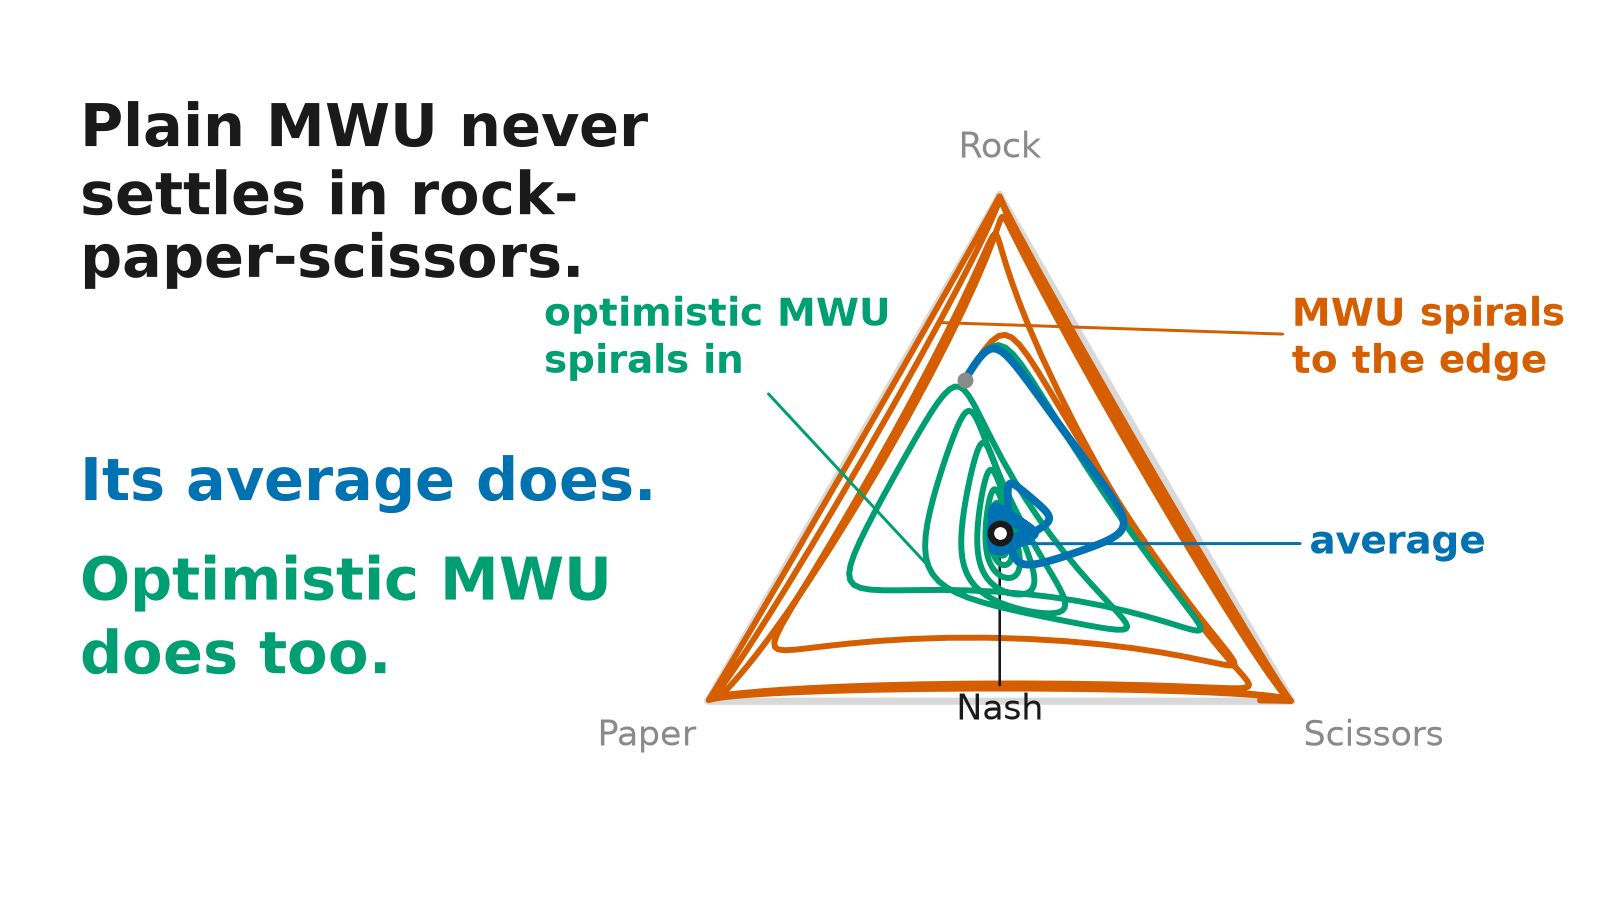
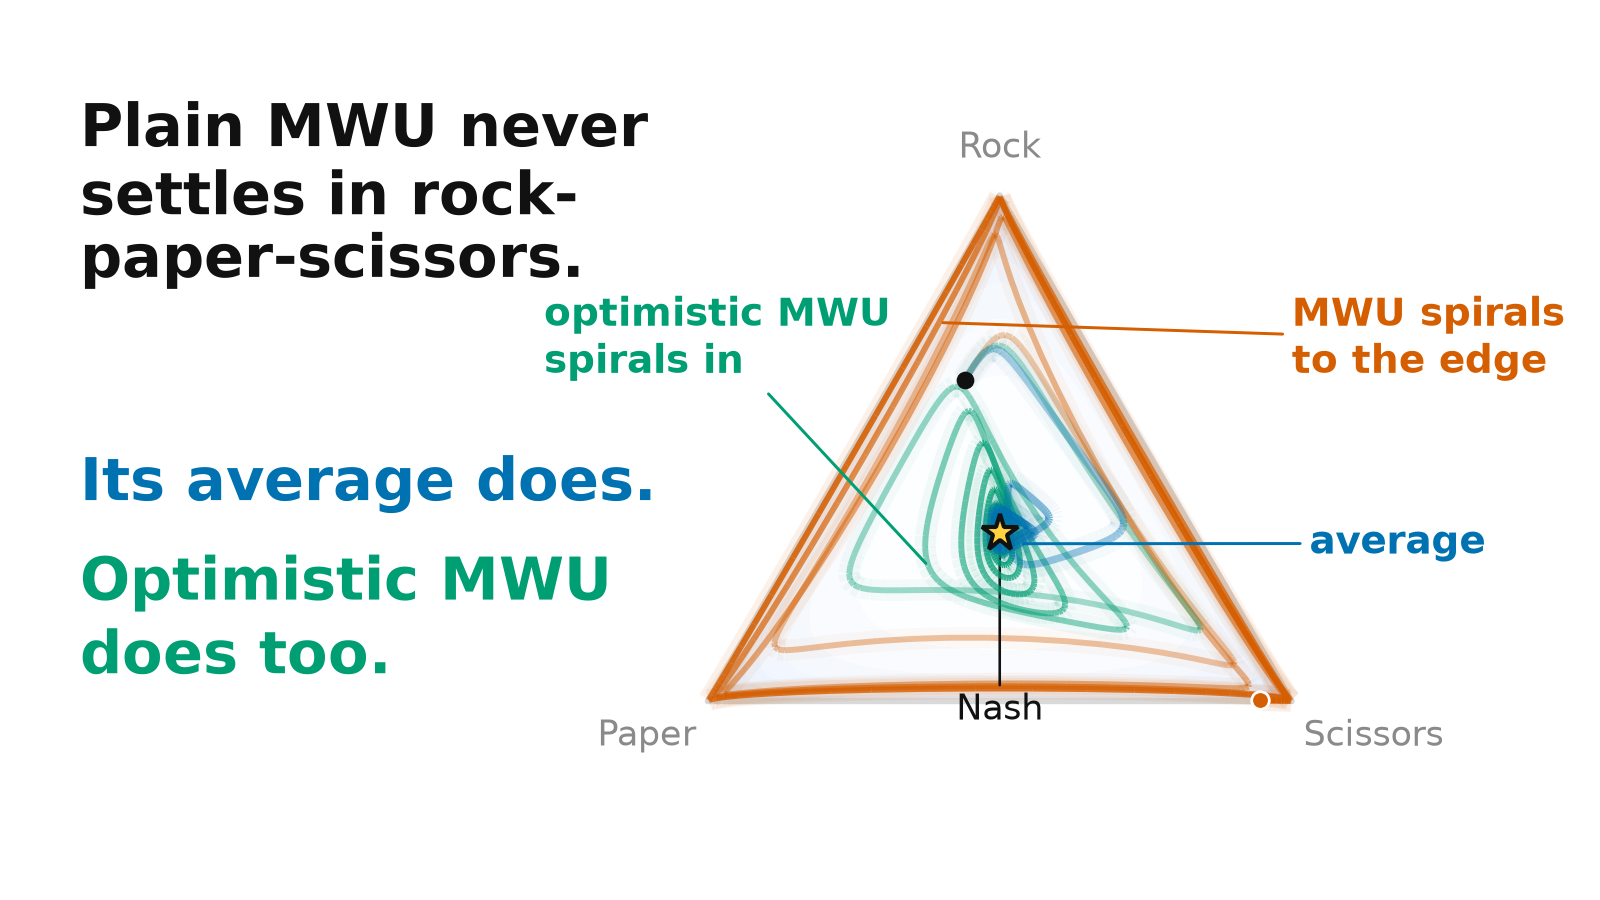
Sketches: plain-words intro, title-only listing, black on white, livelier figures
- Intro explaining Nash equilibrium, why learning dynamics matter, MWU and payoffs
- Listing page is now a plain list of titles linking to full articles
- Remove the dark theme: black on white only
- Figures and canvas animation: fading trails, glow, distance-to-Nash tint
- Correct the average-strategy guarantee (order eta + 1/(eta T) at fixed eta)

Changed region(s): [[0.4375, 0.2178, 0.8125, 0.8089]]

diff --git a/sketches/mwu-rps/index.html b/sketches/mwu-rps/index.html
@@ -3,7 +3,6 @@
 <head>
   <meta charset="utf-8">
   <meta name="viewport" content="width=device-width, initial-scale=1">
-  <meta name="color-scheme" content="light dark">
   <title>Multiplicative Weights in Rock-Paper-Scissors · Raphaël Padiou</title>
   <meta name="description" content="Two players learning rock-paper-scissors by multiplicative weights: the last iterate cycles away from Nash, the average converges, optimistic updates converge.">
   <meta property="og:type" content="website">
@@ -43,16 +42,20 @@
       <h2 class="sk-title">Never settling, yet always fair: Multiplicative Weights in Rock-Paper-Scissors</h2>
 
       <div class="sk-body">
-        <p>Two players play rock-paper-scissors against each other, and each learns with Multiplicative Weights (Hedge): after every round, the weight of each action is multiplied by <span class="mono">exp(η · payoff)</span> against the opponent's current mixed strategy, then renormalised. The only Nash equilibrium is to play every action with probability 1/3. Do the players get there?</p>
-        <p><span class="c-red">Plain MWU does not.</span> The strategy spirals away from the centre, towards the edge of the triangle: the KL divergence to Nash grows at every step (Bailey &amp; Piliouras, 2018). In the run below it goes from 0.63 to 5.0 in 400 rounds, and one player ends up playing scissors 94% of the time. <span class="c-blue">The average does.</span> Each player's regret grows like √T, so the <em>time-averaged</em> strategies form an approximate equilibrium whose error shrinks like 1/√T: in our run it is within 0.03 of (1/3, 1/3, 1/3) after 400 rounds.</p>
-        <p><span class="c-green">Optimistic MWU does too, and without averaging.</span> Counting the latest payoff twice, with the update <span class="mono">2g<sub>t</sub> − g<sub>t−1</sub></span>, makes the strategy itself converge to Nash for a small enough step size (Daskalakis &amp; Panageas, 2019): here the KL divergence falls from 0.63 to 0.003.</p>
+        <div class="sk-intro">
+          <p class="sk-h2">The setting, in plain words</p>
+          <p>Think of rock-paper-scissors. If you always play rock, I will soon notice and play paper. The only way not to be beaten is to <em>mix</em> your moves unpredictably, one third each. Then nothing I do can give me an edge. Such a pair of strategies, where neither player gains by changing their own on their own, is called a <strong>Nash equilibrium</strong>. Here it is unique: both players play (1/3, 1/3, 1/3).</p>
+          <p>Why care? Because more and more decisions are made by algorithms that <em>learn</em> by playing against each other: pricing bots, bidders in ad auctions, trading agents, the two networks of a GAN. When everybody keeps adapting to everybody, does the behaviour calm down at the equilibrium, go round in circles, or blow up? Rock-paper-scissors is the smallest example where the answer is not obvious.</p>
+          <p>The learning rule studied here, <strong>Multiplicative Weights (MWU, also called Hedge)</strong>, is one of the simplest: keep a weight for each move, and after every round boost the moves that would have done well against what the opponent just did. A move's <em>payoff</em> is the score it would have earned (+1 for a win, 0 for a draw, −1 for a loss, averaged over the opponent's current mix). The boost is a multiplication by <span class="mono">exp(η · payoff)</span>: a good move gets more weight, a bad one less, weights stay positive, and the effect compounds from round to round. The number η, the learning rate, says how strongly to react. Finally the weights are rescaled to sum to 1, so they read as probabilities.</p>
+        </div>
+
+        <p>Do two MWU players end up at Nash?</p>
+        <p><span class="c-red">Plain MWU does not.</span> The strategy spirals away from the centre, towards the edge of the triangle: the KL divergence to Nash (a measure of distance between two probability vectors) grows at every step (Bailey &amp; Piliouras, 2018). In the run below it goes from 0.63 to 5.0 in 400 rounds, and one player ends up playing scissors 94% of the time. <span class="c-blue">The average does.</span> Each player's regret (how much they lose compared with the best fixed move in hindsight) grows slowly, so the <em>time-averaged</em> strategies form an approximate equilibrium, with a guaranteed error of order η + 1/(ηT): in our run it is within 0.03 of (1/3, 1/3, 1/3) after 400 rounds.</p>
+        <p><span class="c-green">Optimistic MWU does too, and without averaging.</span> Counting the latest payoff twice, with the update <span class="mono">2g<sub>t</sub> − g<sub>t−1</sub></span> (where g<sub>t</sub> is the payoff vector at round t), makes the strategy itself converge to Nash for a small enough step size (Daskalakis &amp; Panageas, 2019): here the KL divergence falls from 0.63 to 0.003.</p>
       </div>
 
       <figure>
-        <picture>
-          <source srcset="figure-dark.png" media="(prefers-color-scheme: dark)">
-          <img src="figure-light.png" width="1760" height="800" alt="Left: the rock-paper-scissors simplex with the trajectory of one player under MWU (spiralling to the edge), its running average and optimistic MWU (both converging to the centre). Right: KL divergence to Nash over 400 iterations, growing for MWU, decreasing for optimistic MWU, small for the average.">
-        </picture>
+        <img src="figure.png" width="1760" height="800" alt="Left: the rock-paper-scissors simplex with the trajectory of one player under MWU (spiralling to the edge), its running average and optimistic MWU (both converging to the centre). Right: KL divergence to Nash over 400 iterations, growing for MWU, decreasing for optimistic MWU, small for the average.">
         <figcaption>One run, step size η = 0.2, 400 rounds, both players start away from the centre. Left: player 1's strategy. Right: KL divergence to Nash, summed over both players (log scale). The average is not monotone: it wiggles around Nash.</figcaption>
       </figure>
 
@@ -78,6 +81,6 @@
   </main>
 
 </div>
-<script src="anim.js?v=1"></script>
+<script src="anim.js?v=3"></script>
 </body>
 </html>

diff --git a/sketches/mwu-rps/anim.js b/sketches/mwu-rps/anim.js
@@ -75,28 +75,47 @@
     ctx.textAlign = "center"; ctx.fillText("Rock", P([1, 0, 0])[0], P([1, 0, 0])[1] - 12);
     ctx.textAlign = "center"; ctx.fillText("Paper", P([0, 1, 0])[0], P([0, 1, 0])[1] + fs + 4);
     ctx.textAlign = "center"; ctx.fillText("Scissors", P([0, 0, 1])[0], P([0, 0, 1])[1] + fs + 4);
+    var c0 = P([1 / 3, 1 / 3, 1 / 3]);
     // paths
     function trail(path, color, lw) {
-      ctx.strokeStyle = color; ctx.lineWidth = lw; ctx.beginPath();
-      for (var j = 0; j <= upto; j++) { var q = P(path[j]); j ? ctx.lineTo(q[0], q[1]) : ctx.moveTo(q[0], q[1]); }
-      ctx.stroke();
+      // older part faint, recent part vivid: draw in chunks of increasing opacity
+      var chunks = 24, len = upto + 1, size = Math.max(2, Math.ceil(len / chunks));
+      ctx.strokeStyle = color; ctx.lineWidth = lw;
+      for (var a0 = 0; a0 < upto; a0 += size) {
+        var a1 = Math.min(upto, a0 + size);
+        ctx.globalAlpha = 0.25 + 0.75 * (a1 / Math.max(1, upto));
+        ctx.beginPath();
+        for (var j = a0; j <= a1; j++) { var q = P(path[j]); j > a0 ? ctx.lineTo(q[0], q[1]) : ctx.moveTo(q[0], q[1]); }
+        ctx.stroke();
+      }
+      ctx.globalAlpha = 1;
     }
-    trail(data.M, red, 2.2); trail(data.O, green, 2.2); trail(data.A, blue, 2.6);
+    // soft tint towards the edge (distance to Nash), then trails
+    var g = ctx.createRadialGradient(c0[0], c0[1], 0, c0[0], c0[1], side * 0.62);
+    g.addColorStop(0, "rgba(196,214,245,0)"); g.addColorStop(1, "rgba(196,214,245,.55)");
+    ctx.save(); ctx.beginPath();
+    for (var m2 = 0; m2 < 3; m2++) { var vq = P([[1, 0, 0], [0, 1, 0], [0, 0, 1]][m2]); m2 ? ctx.lineTo(vq[0], vq[1]) : ctx.moveTo(vq[0], vq[1]); }
+    ctx.closePath(); ctx.clip(); ctx.fillStyle = g; ctx.fillRect(0, 0, w, h); ctx.restore();
+    ctx.shadowBlur = 10;
+    ctx.shadowColor = red; trail(data.M, red, 2.4);
+    ctx.shadowColor = green; trail(data.O, green, 2.4);
+    ctx.shadowColor = blue; trail(data.A, blue, 2.8);
+    ctx.shadowBlur = 0;
     // Nash and start
     var c = P([1 / 3, 1 / 3, 1 / 3]);
-    ctx.fillStyle = bg; ctx.strokeStyle = fg; ctx.lineWidth = 2; ctx.beginPath(); ctx.arc(c[0], c[1], 5, 0, 6.2832); ctx.fill(); ctx.stroke();
+    ctx.fillStyle = "#ffd23f"; ctx.strokeStyle = fg; ctx.lineWidth = 1.6; ctx.beginPath(); ctx.arc(c[0], c[1], 7, 0, 6.2832); ctx.fill(); ctx.stroke();
     var s0 = P(X0); ctx.fillStyle = grey; ctx.beginPath(); ctx.arc(s0[0], s0[1], 3.5, 0, 6.2832); ctx.fill();
     // direct labels at the current points
     ctx.font = "600 " + fs + "px 'STIX Two Text', Georgia, serif";
     function tag(path, color, text, dx, dy, align) {
       var q = P(path[upto]);
-      ctx.fillStyle = color; ctx.beginPath(); ctx.arc(q[0], q[1], 4, 0, 6.2832); ctx.fill();
+      ctx.shadowBlur = 12; ctx.shadowColor = color; ctx.fillStyle = color; ctx.beginPath(); ctx.arc(q[0], q[1], 5, 0, 6.2832); ctx.fill(); ctx.shadowBlur = 0;
       if (align === "left" && q[0] > w * 0.7) { align = "right"; dx = -dx; }
       ctx.textAlign = align; ctx.fillText(text, q[0] + dx, q[1] + dy);
     }
-    tag(data.M, red, "MWU", 9, -8, "left");
+    tag(data.M, red, "MWU", 9, -14, "left");
     tag(data.O, green, "optimistic MWU", -12, 24, "right");
-    tag(data.A, blue, "average", 12, 4, "left");
+    tag(data.A, blue, "average", 12, 18, "left");
   }
 
   function frame() {
@@ -116,7 +135,6 @@
   slider.addEventListener("input", start);
   replay.addEventListener("click", start);
   window.addEventListener("resize", function () { if (data) draw(k); });
-  if (window.matchMedia) matchMedia("(prefers-color-scheme: dark)").addEventListener("change", function () { if (data) draw(k); });
   // Start when visible (saves work if the page is opened in the background).
   if ("IntersectionObserver" in window) {
     var io = new IntersectionObserver(function (e) { if (e[0].isIntersecting) { io.disconnect(); start(); } }, { threshold: 0.3 });

diff --git a/assets/css/style.css b/assets/css/style.css
@@ -189,19 +189,16 @@ html.lens-open { overflow: hidden; }
 .sk .refs { font-size: 1rem; line-height: 1.55; padding-left: 1.2rem; margin: 0 0 1.4rem; color: var(--muted); }
 .sk .refs li { margin-bottom: .5rem; }
 .sk .sk-note { font-size: .95rem !important; color: var(--muted); }
-.sk-list { list-style: none; margin: 2rem 0 0; padding: 0; }
-.sk-list li { margin: 0 0 3rem; }
-.sk-item { display: grid; grid-template-columns: 13rem 1fr; gap: 0 1.8rem; align-items: center; color: var(--text); }
-.sk-item:hover { text-decoration: none; }
-.sk-item:hover .sk-name { text-decoration: underline; }
-.sk-item img { width: 100%; height: auto; aspect-ratio: 16 / 9; object-fit: cover; border-radius: 6px; display: block; }
-.sk-name { display: block; font-size: 1.3rem; font-weight: 600; line-height: 1.25; margin-bottom: .35rem; }
-.sk-one { display: block; color: var(--muted); font-size: 1.05rem; line-height: 1.45; }
+.sk-list { list-style: none; margin: 1.6rem 0 0; padding: 0; }
+.sk-list li { padding: 1rem 0; border-top: 1px solid var(--rule); }
+.sk-list li:last-child { border-bottom: 1px solid var(--rule); }
+.sk-list a { font-size: 1.3rem; font-weight: 600; line-height: 1.3; color: var(--text); }
+.sk-list a:hover { color: var(--accent); }
 @media (max-width: 600px) {
   .sk .sk-title { font-size: 1.55rem; }
-  .sk-item { grid-template-columns: 1fr; gap: .8rem; }
   .sk main > p, .sk .sk-body p { font-size: 1.1rem; }
 }
-@media (prefers-color-scheme: dark) {
-  .sk { --bg: #14161a; --text: #ececec; --muted: #a3a3a3; --rule: #343840; --accent: #7fb2ee; --sk-grey: #8c8c8c; --sk-faint: #3a3d44; --sk-red: #f08a3c; --sk-blue: #56b4e9; --sk-green: #2fc79a; color-scheme: dark; }
-}
+
+.sk .sk-intro { border-left: 3px solid var(--rule); padding-left: 1.1rem; margin: 0 0 2rem; }
+.sk .sk-intro p { color: var(--text); }
+.sk .sk-intro .sk-h2 { font-size: .9rem; font-weight: 600; font-variant: small-caps; letter-spacing: .05em; color: var(--muted); margin: 0 0 .5rem; }

diff --git a/sketches/index.html b/sketches/index.html
@@ -3,7 +3,6 @@
 <head>
   <meta charset="utf-8">
   <meta name="viewport" content="width=device-width, initial-scale=1">
-  <meta name="color-scheme" content="light dark">
   <title>Sketches · Raphaël Padiou</title>
   <meta name="description" content="Short visual notes: one idea, one figure, a few lines of code.">
   <meta property="og:type" content="website">
@@ -39,15 +38,8 @@
   <main>
     <section>
       <h2>Sketches</h2>
-      <p>Short pieces: one idea, one figure, the code to reproduce it.</p>
       <ul class="sk-list">
-        <li>
-          <a class="sk-item" href="mwu-rps/index.html">
-            <img src="mwu-rps/tweet.png" width="1600" height="900" alt="Rock-paper-scissors simplex with three trajectories: MWU spiralling to the edge, its time average and optimistic MWU converging to the centre" loading="lazy">
-            <span><span class="sk-name">Never settling, yet always fair: Multiplicative Weights in Rock-Paper-Scissors</span>
-            <span class="sk-one">Two players learning by multiplicative weights keep cycling away from fair play, yet their average strategy is fair; a small optimistic tweak makes the strategy itself fair.</span></span>
-          </a>
-        </li>
+        <li><a href="mwu-rps/index.html">Never settling, yet always fair: Multiplicative Weights in Rock-Paper-Scissors</a></li>
       </ul>
     </section>
   </main>

diff --git a/sketches/mwu-rps/code/mwu_rps.py b/sketches/mwu-rps/code/mwu_rps.py
@@ -114,8 +114,7 @@ def verify(r):
 
 # ---------------------------------------------------------------------- drawing
 THEMES = {
-    "light": dict(bg="#ffffff", fg="#1a1a1a", grey="#8a8a8a", faint="#d9d9d9"),
-    "dark":  dict(bg="#14161a", fg="#ececec", grey="#8c8c8c", faint="#3a3d44"),
+    "light": dict(bg="#ffffff", fg="#111111", grey="#8a8a8a", faint="#d9d9d9", tint="#e6eefb"),
 }
 V = np.array([[0.5, np.sqrt(3) / 2], [0.0, 0.0], [1.0, 0.0]])  # rock (top), paper, scissors
 
@@ -124,20 +123,47 @@ def xy(P):
     return P @ V
 
 
+def fade_line(ax, P, color, lw, z, glow=True):
+    """Trail whose opacity ramps up along time (old = faint, recent = vivid), with a soft glow."""
+    from matplotlib.collections import LineCollection
+    seg = np.stack([P[:-1], P[1:]], axis=1)
+    alpha = np.linspace(0.3, 1.0, len(seg))
+    from matplotlib.colors import to_rgba
+    if glow:
+        for w, a_ in ((lw * 3.6, 0.10),):
+            rgba = np.array([to_rgba(color, a_) for _ in alpha]); rgba[:, 3] = alpha * a_
+            ax.add_collection(LineCollection(seg, colors=rgba, linewidths=w, capstyle="butt", zorder=z - .1))
+    rgba = np.array([to_rgba(color, a_) for a_ in alpha])
+    ax.add_collection(LineCollection(seg, colors=rgba, linewidths=lw, capstyle="butt", zorder=z))
+
+
 def draw_simplex(ax, th, r, fs, lw):
+    import matplotlib.tri as mtri
+    from matplotlib.colors import LinearSegmentedColormap
+    from matplotlib.patches import Polygon
     ax.set_aspect("equal"); ax.axis("off")
-    tri = np.vstack([V, V[:1]])
-    ax.plot(tri[:, 0], tri[:, 1], color=th["faint"], lw=lw * 1.2, solid_joinstyle="round", zorder=1)
-    ax.text(*V[0] + [0, .05], "Rock", ha="center", va="bottom", color=th["grey"], fontsize=fs)
-    ax.text(*V[1] + [-.02, -.03], "Paper", ha="right", va="top", color=th["grey"], fontsize=fs)
-    ax.text(*V[2] + [.02, -.03], "Scissors", ha="left", va="top", color=th["grey"], fontsize=fs)
+    # soft background: distance to Nash (KL), pale blue near the edge, white at the centre
+    n = 90
+    pts = np.array([(i / n, j / n, 1 - i / n - j / n) for i in range(n + 1) for j in range(n + 1 - i)])
+    pts = np.clip(pts, 1e-3, None); pts /= pts.sum(1, keepdims=True)
+    z = np.clip(kl_nash(pts), 0, 2.2)
+    P2 = xy(pts)
+    tri_ = mtri.Triangulation(P2[:, 0], P2[:, 1])
+    cm = LinearSegmentedColormap.from_list("t", ["#ffffff", "#eaf1fd", "#c4d6f5"])
+    ax.tricontourf(tri_, z, levels=np.linspace(0, 2.2, 12), cmap=cm, zorder=0)
+    outline = Polygon(V, closed=True, fill=False, ec=th["faint"], lw=lw * 1.0, joinstyle="round", zorder=1)
+    ax.add_patch(outline)
+    for v, (txt, off, ha, va) in zip(V, (("Rock", (0, .05), "center", "bottom"), ("Paper", (-.02, -.03), "right", "top"), ("Scissors", (.02, -.03), "left", "top"))):
+        ax.text(*(v + off), txt, ha=ha, va=va, color=th["grey"], fontsize=fs)
     m, a, o = xy(r["Xm"]), xy(r["Xa"]), xy(r["Xo"])
-    ax.plot(*m.T, color=RED, lw=lw, zorder=3, solid_capstyle="round")
-    ax.plot(*o.T, color=GREEN, lw=lw, zorder=4, solid_capstyle="round")
-    ax.plot(*a.T, color=BLUE, lw=lw * 1.3, zorder=5, solid_capstyle="round")
+    fade_line(ax, m, RED, lw, 3)
+    fade_line(ax, o, GREEN, lw, 4)
+    fade_line(ax, a, BLUE, lw * 1.25, 5)
+    for P_, col in ((m, RED),):          # bright heads
+        ax.plot(*P_[-1], "o", ms=fs * .5, color=col, mec="white", mew=1.5, zorder=8)
     c = xy(NASH[None])[0]
-    ax.plot(*c, marker="o", ms=fs * .55, mfc=th["bg"], mec=th["fg"], mew=lw * 1.1, zorder=6)
-    ax.plot(*m[0], marker="o", ms=fs * .4, color=th["grey"], zorder=6)
+    ax.plot(*c, marker="*", ms=fs * 1.1, mfc="#ffd23f", mec=th["fg"], mew=lw * .7, zorder=9)
+    ax.plot(*m[0], marker="o", ms=fs * .45, color=th["fg"], zorder=9)
     return m, a, o, c
 
 
@@ -203,6 +229,5 @@ if __name__ == "__main__":
     (HERE / "results.json").write_text(json.dumps(res, indent=2) + "\n")
     print(json.dumps(res, indent=2))
     tweet(r, OUT / "tweet.png")
-    for th in ("light", "dark"):
-        page_figure(r, OUT / f"figure-{th}.png", th)
+    page_figure(r, OUT / "figure.png", "light")
     print("wrote", OUT / "tweet.png")
